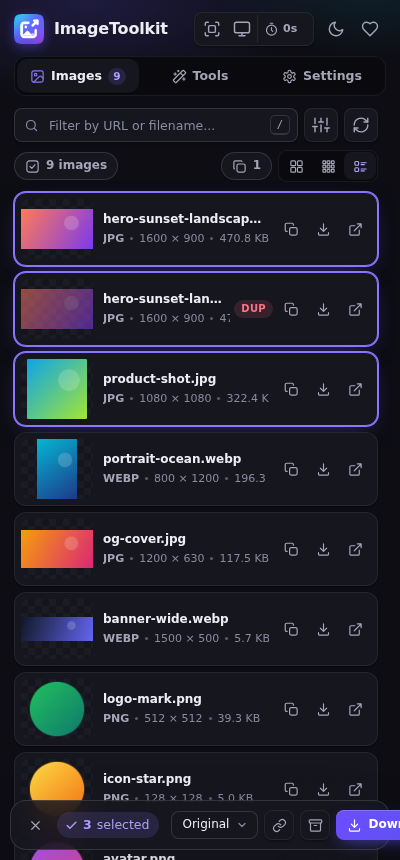
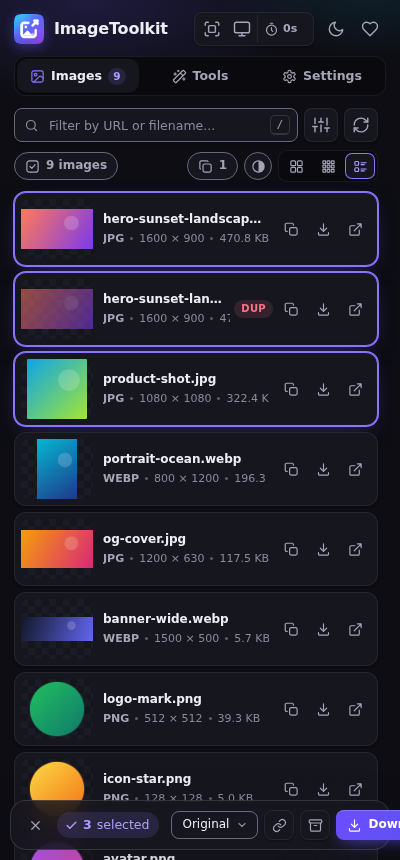
Release 2.4.0
- manifest.json, package.json and package-lock.json at 2.4.0.
- CHANGELOG: [Unreleased] closed as [2.4.0] - 2026-10-01, with this
  round's fixes.
- README screenshots refreshed (control boundaries, selected segment).

Claude-Session: https://claude.ai/code/session_014NEdMEBMfdjsfg6vKgeYnq

Changed region(s): [[0.45, 0.1814, 0.66, 0.2116]]

diff --git a/CHANGELOG.md b/CHANGELOG.md
@@ -6,9 +6,11 @@ The format is based on [Keep a Changelog](https://keepachangelog.com/en/1.1.0/),
 and this project adheres to [Semantic Versioning](https://semver.org/).
 
 
-## [Unreleased]
+## [2.4.0] - 2026-10-01
 
 ### Added
+- **Accessible controls**: segmented choices (format, theme) are proper radio groups with a name, one Tab stop and arrow keys; the image grid is a single Tab stop with arrow-key navigation inside it (card actions stay available in the preview); icon buttons are labelled in every language.
+- The live "new images" notice also recognises inline SVG, `<picture>` sources and inline-style backgrounds added after the scan.
 - **Transparency background switch** in the image grid (automatic, light or dark), so dark icons stay visible on the dark theme and light ones on the light theme.
 - **New logo**: a continuous image frame that opens into an export arrow, on the brand gradient tile. Vector sources, usage rules and a light/dark wordmark live in `docs/brand`, with three cuts (Master, Compact for 32/48 px, Micro for 16 px), a 128 px store icon with the Web Store's 16 px padding, and `npm run build:icons` to re-render the PNG set.
 - **Redesigned interface** for the popup, side panel and editor: new design system (light/dark/auto), segmented tabs, collapsible filters, image cards with hover actions, floating selection bar, skeleton loading, toasts and an SVG icon set. System fonts only, no network.
@@ -28,6 +30,17 @@ and this project adheres to [Semantic Versioning](https://semver.org/).
 - `npm test` (unit), `npm run test:e2e` (Playwright, real extension), `npm run build` (reproducible Web Store ZIP) and a GitHub Actions workflow.
 
 ### Fixed
+- Inline SVG icons are listed at the size the page renders them (or their absolute width/height), not at their viewBox: a 24 px icon with `viewBox="0 -960 960 960"` was shown as 960×960, sorted above real photos and counted as "large". Hidden sprite sheets are no longer listed.
+- Resize sizes over 16384 px are refused with an error (in the panel and in the service worker) instead of being dropped, which saved the original image and reported success.
+- Editor: after typing an output size, changing the crop (or unlocking a fixed preset) kept stale numbers and saved a different size; the typed side is now kept, the other follows the crop, and the file is exactly the size shown, never stretched.
+- Area capture no longer falls back to the whole screenshot when cropping fails; it reports the error. Selections are validated.
+- Transparency in a small area of a large image (a few pixels) is detected, so the Format Advisor no longer recommends JPG for it.
+- Size probing reads the full size of ranged (206) answers instead of the 1-byte slice.
+- Format Advisor: a new source hides the previous figures and cancels the previous analysis immediately.
+- Bounded resources: one scan's message (8 MiB per inline image, 24 MiB in total), size probes (2 MiB per image, 8 MiB per batch), preview/dimension downloads (40 images, 48 MiB per scan, reset on every scan) and ZIPs (256 MiB, checked before and during the batch, kept as bytes rather than base64). Downloads larger than ~36 MiB use a blob URL released when Chrome finishes instead of a base64 message.
+- Non-text contrast (WCAG 1.4.11): fields, outlined buttons, chips, switches when off and the selected segment reach 3:1 in both themes; `npm run check:contrast` now checks these pairs and that the controls use them.
+- Upgrades remove the editor hand-off image that 2.3.5 could leave in `chrome.storage.local`.
+- Plurals ("1 image", "1 new image found"), the "Automatic (browser)" language option, the subfolder note naming the real "Ask save location" option, and the editor's "Quality" label are translated in all 18 languages; pt-PT and pt-BR use sentence case and "ex.:".
 - Inline SVG icons keep the colours the page paints them with (currentColor and CSS fills) instead of turning black.
 - The "new images" banner counts only images the panel has not listed yet, instead of every re-render on the page.
 - Editor: the crop size and the output size use the same rounding, so they no longer differ by one pixel; with the ratio locked, typing one crop side fills in the other.
